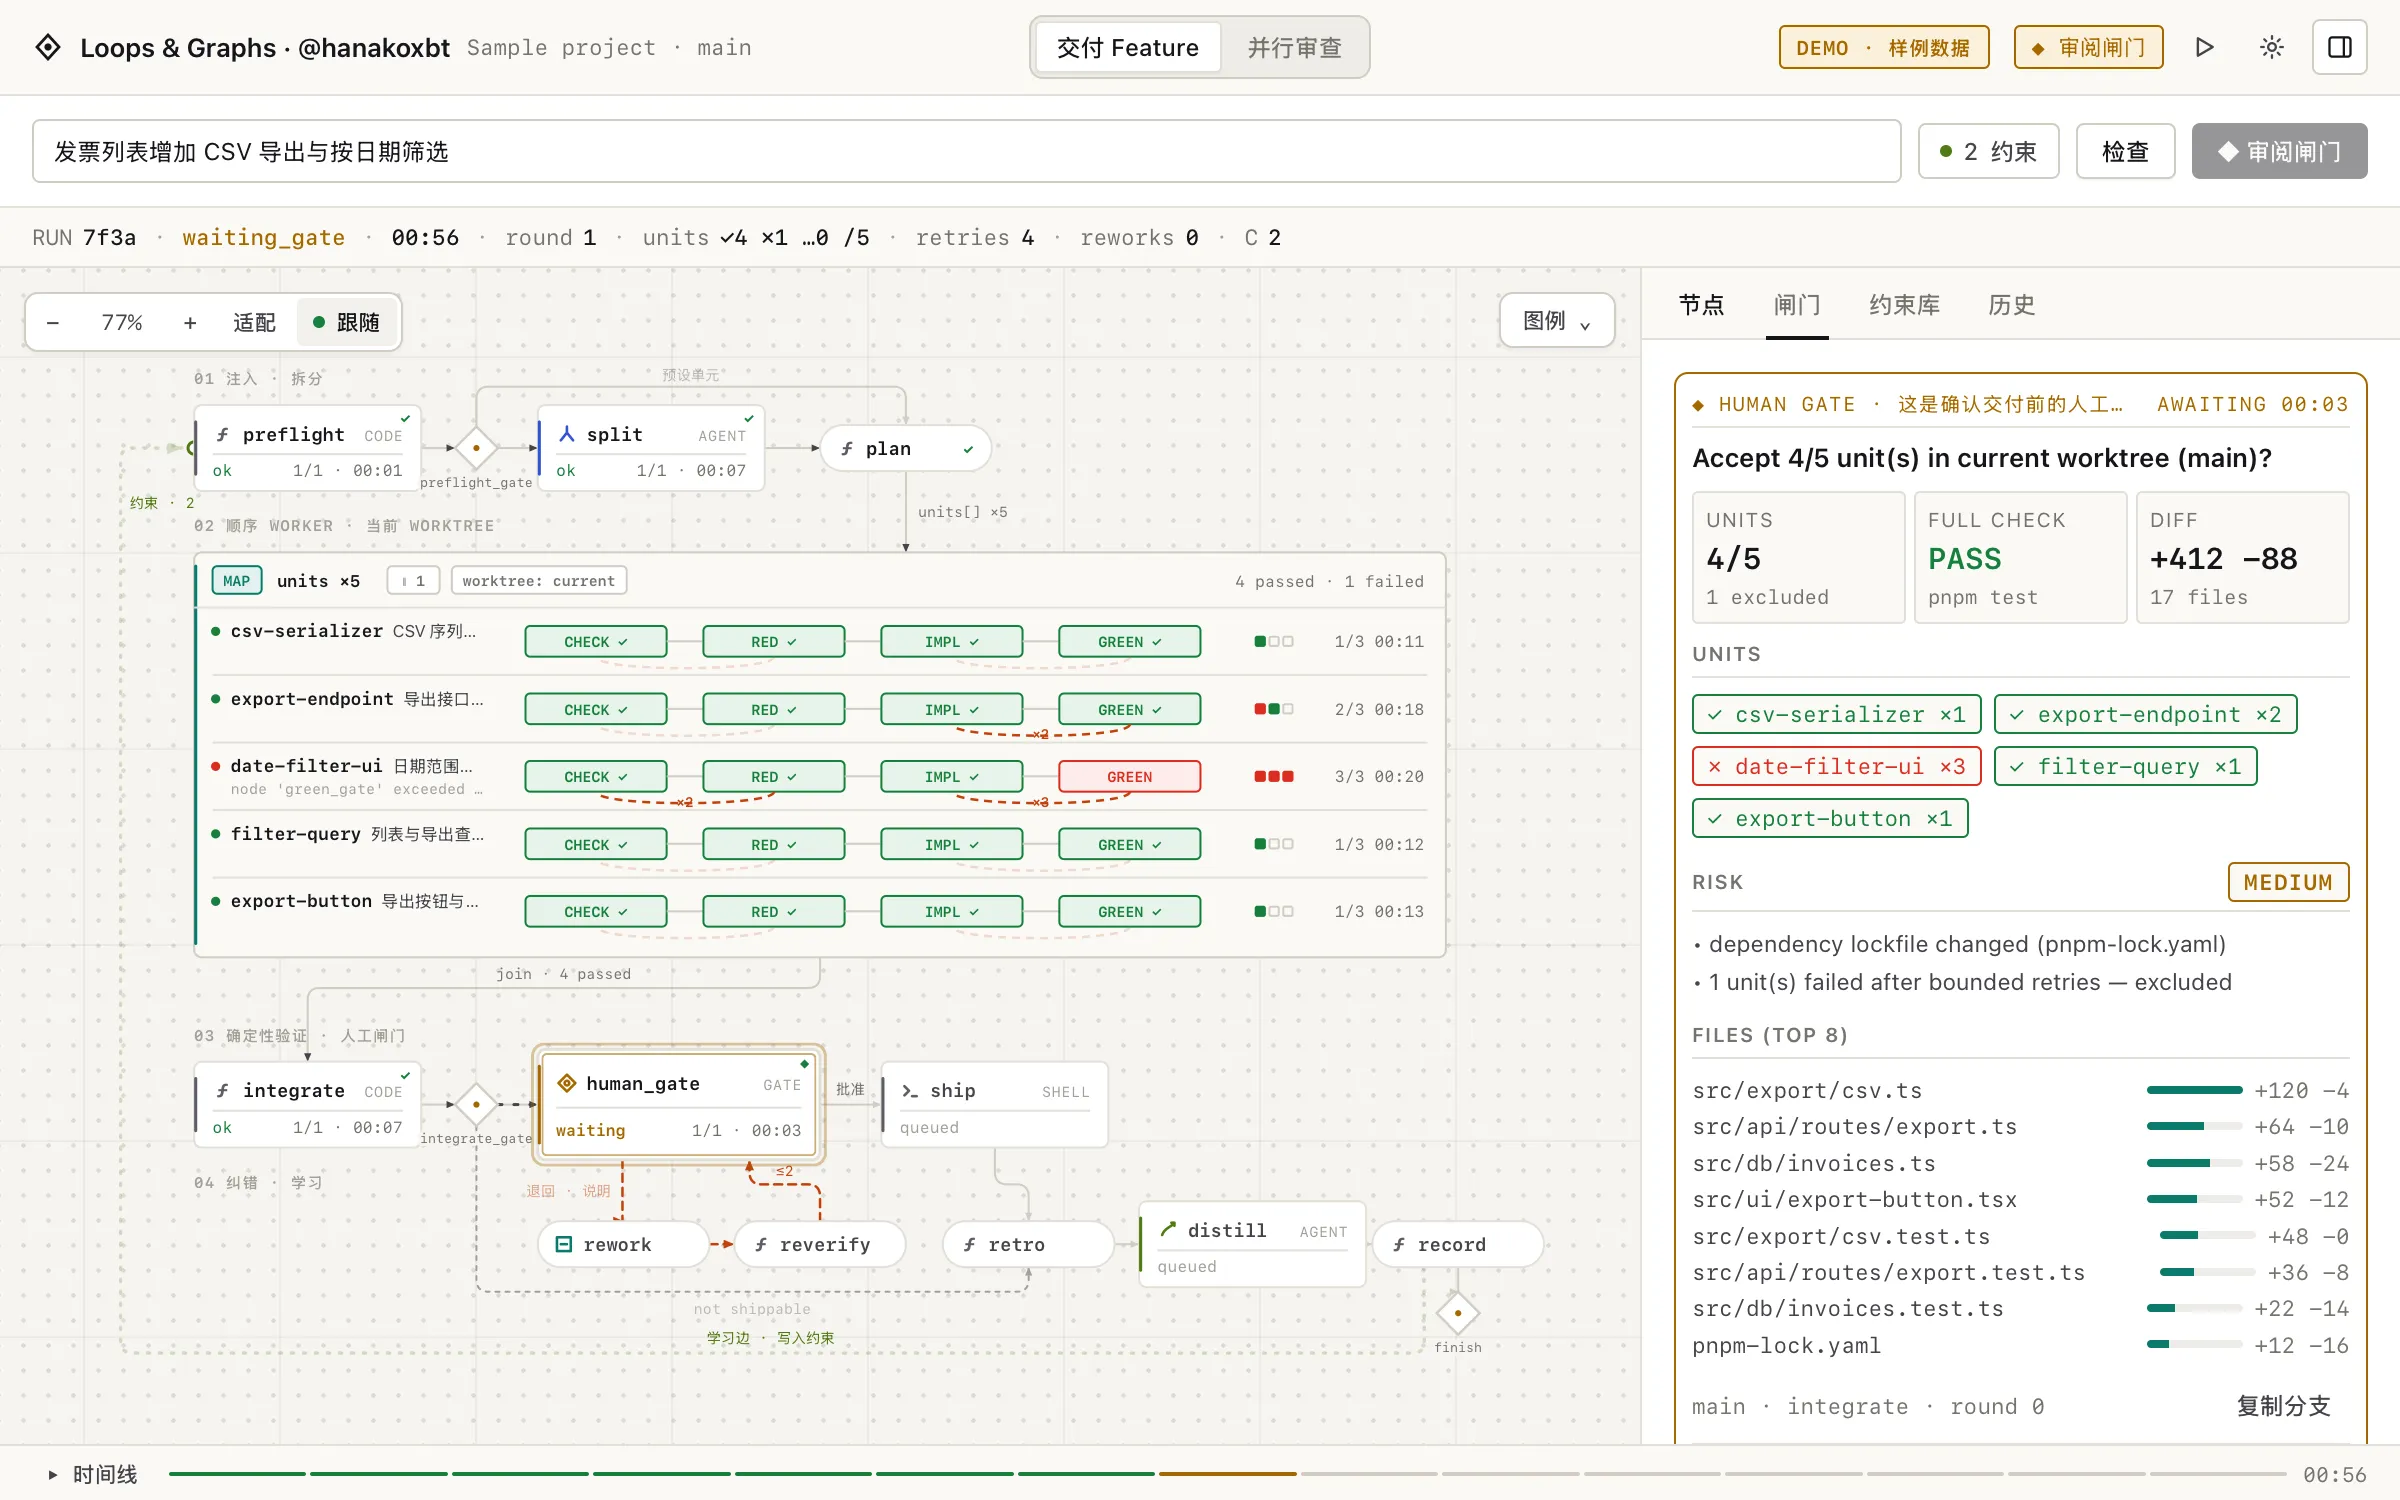
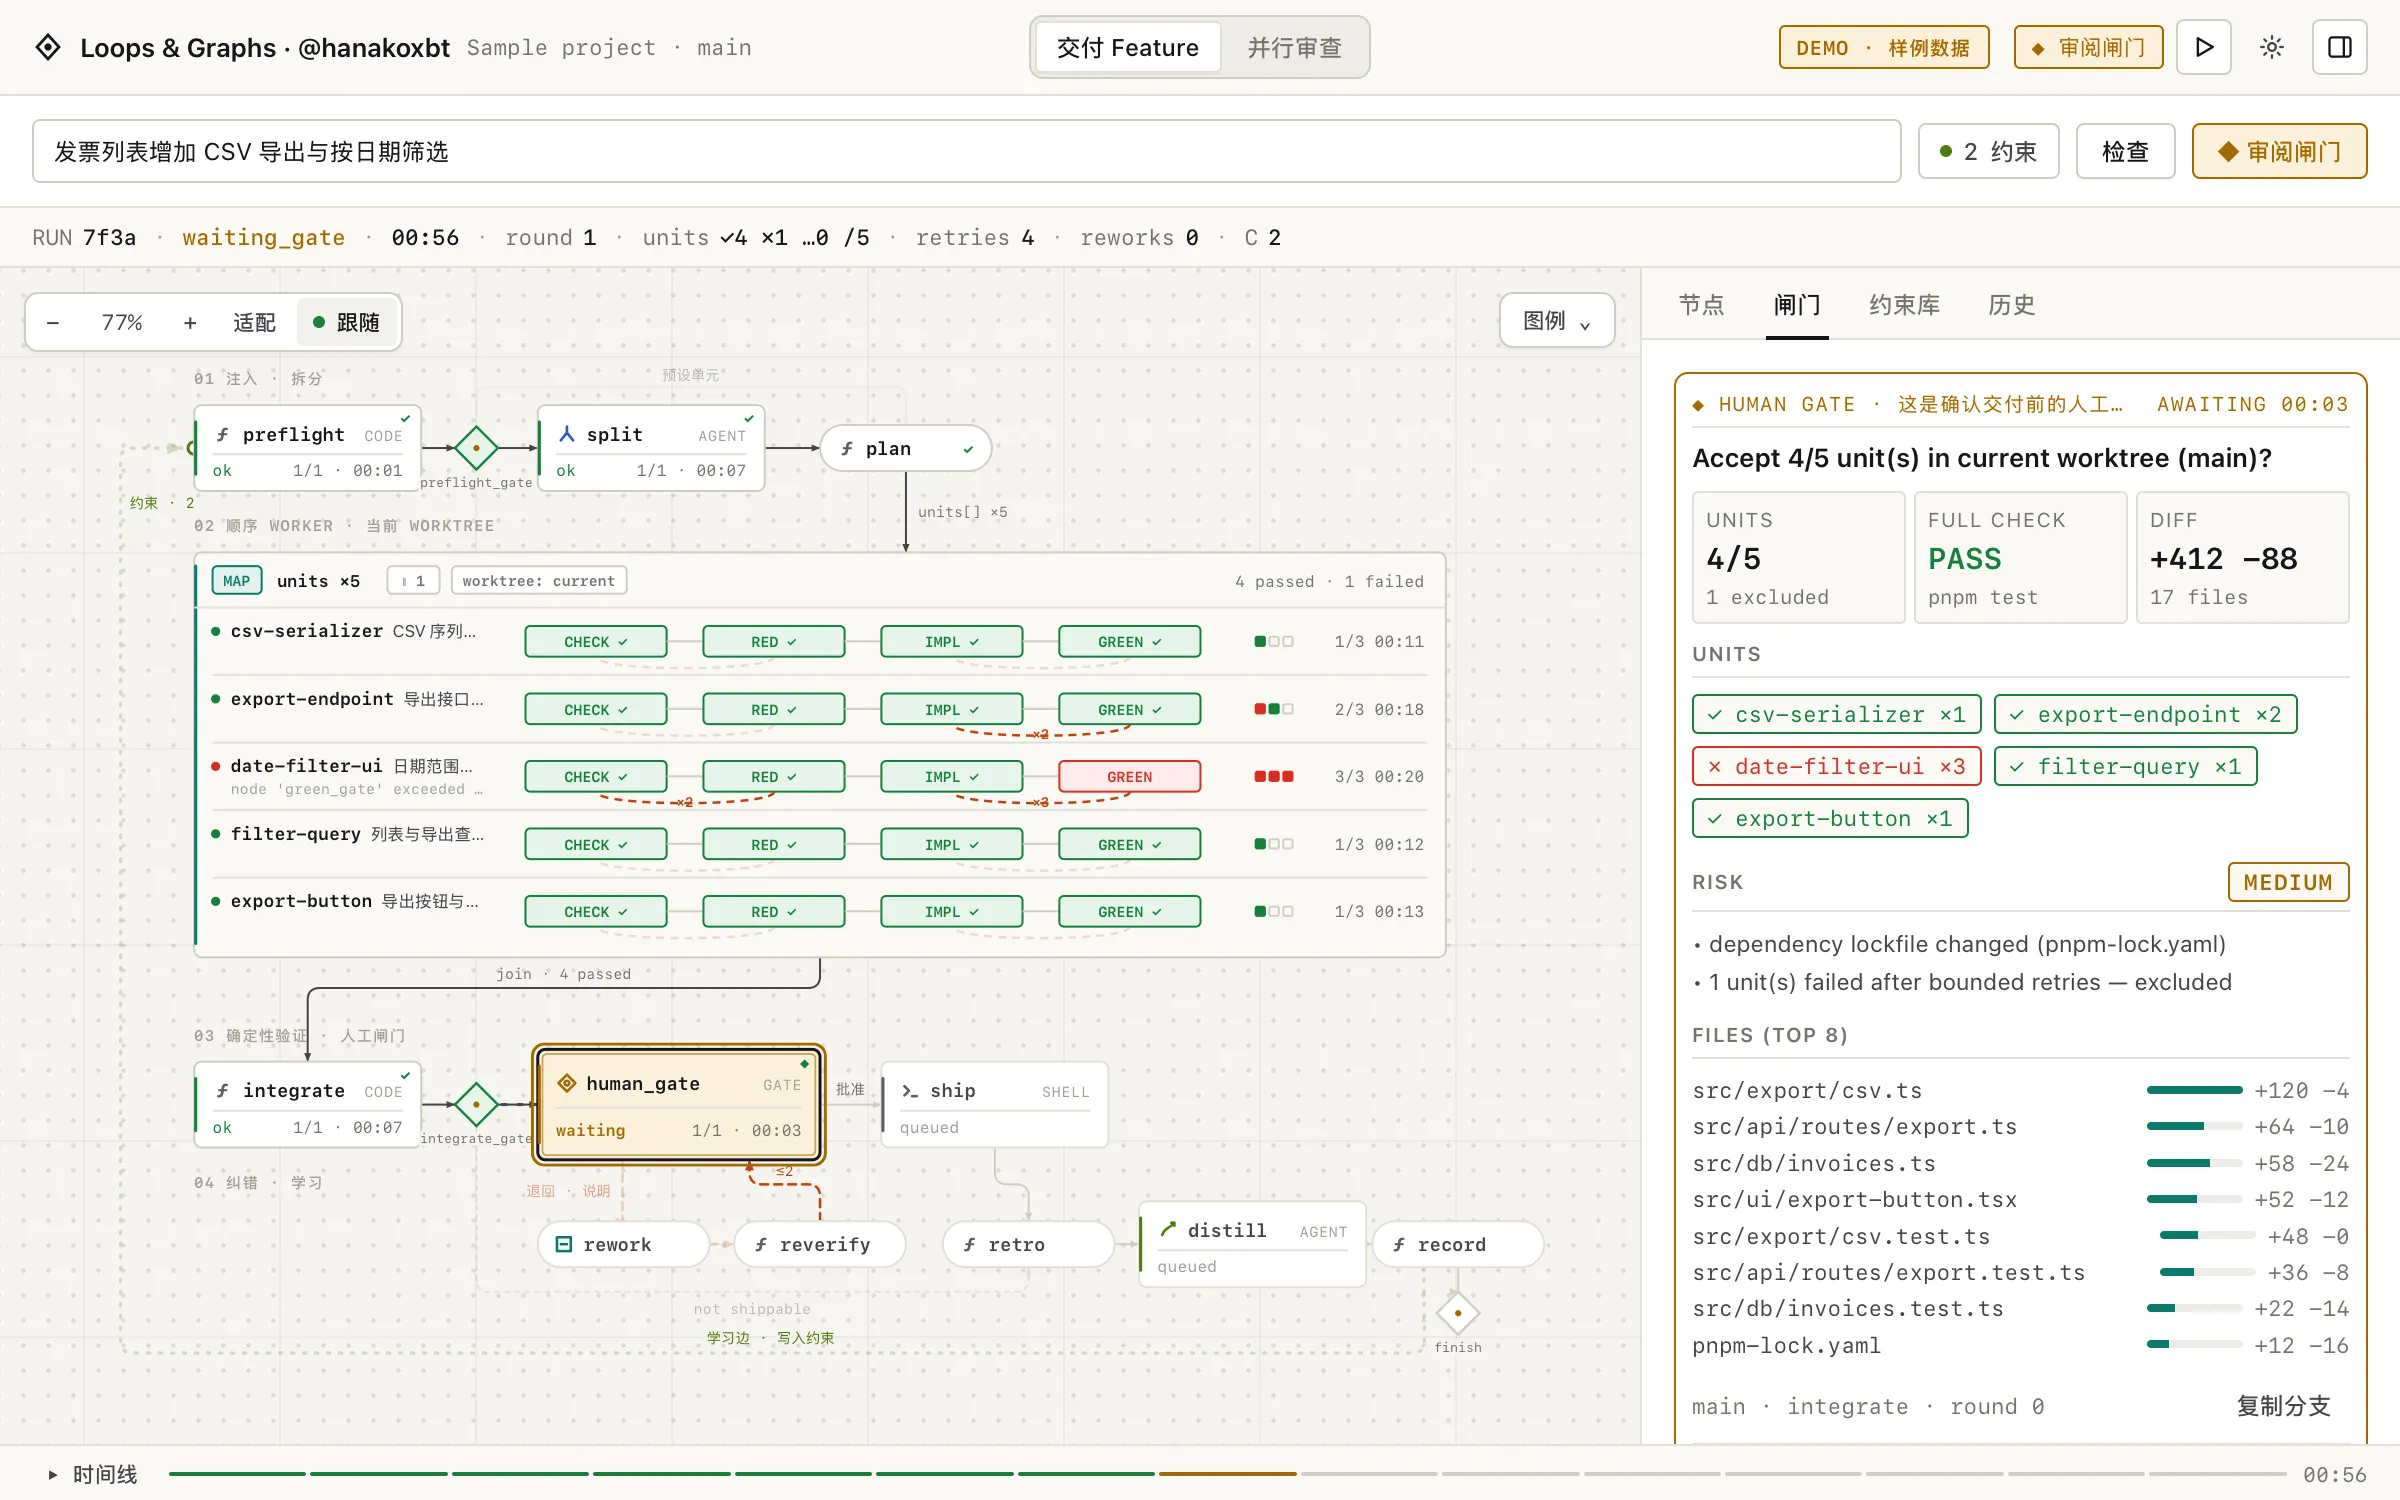
feat(hanakoxbt-loops-and-graphs): improve responsive viewport layout and canvas fit

diff --git a/decks/hanakoxbt-loops-and-graphs/src/host.js b/decks/hanakoxbt-loops-and-graphs/src/host.js
@@ -2,7 +2,7 @@ import { setLocale, t } from './i18n.js';
 import { DEFAULT_PREFS } from './store.js';
 import { createTelemetryController, normalizeEpochSec } from './telemetry.js';
 import { createLessonsController } from './lessons.js';
-import { checkTopologyDrift, extractYamlNodeIds } from './topology/layout.js';
+import { checkTopologyDrift, extractYamlNodeIds, isWideViewport } from './topology/layout.js';
 import { getTopology } from './topology/index.js';
 
 const BASE_TITLE = 'Loops & Graphs · @hanakoxbt';
@@ -280,7 +280,11 @@ export function createHost(store, demo) {
     if (prevState !== 'waiting_gate' && nextRun.state === 'waiting_gate') {
       document.title = `◆ ${BASE_TITLE}`;
       patch.selection = { kind: 'node', id: 'human_gate' };
-      patch.ui = { ...st.ui, inspectorOpen: true, tab: 'gate' };
+      patch.ui = {
+        ...st.ui,
+        inspectorOpen: isWideViewport() ? true : st.ui.inspectorOpen,
+        tab: 'gate',
+      };
     } else if (prevState === 'waiting_gate' && nextRun.state !== 'waiting_gate') {
       document.title = BASE_TITLE;
     }
@@ -560,6 +564,7 @@ export function createHost(store, demo) {
       banner = { tone: 'fail', text: `${preset}: ${wfMap[preset].error}` };
     }
 
+    const wide = isWideViewport();
     store.set(s => ({
       ...s,
       mode: 'idle',
@@ -572,7 +577,7 @@ export function createHost(store, demo) {
       banner,
       ui: {
         ...s.ui,
-        inspectorOpen: mergedPrefs.inspectorOpen !== false,
+        inspectorOpen: wide,
         inspectorWidth: Math.max(320, Math.min(520, Number(mergedPrefs.inspectorWidth) || 380)),
         tab: mergedPrefs.tab || 'node',
         timelineOpen: Boolean(mergedPrefs.timelineOpen),
@@ -639,7 +644,7 @@ export function createHost(store, demo) {
             selection: run.state === 'waiting_gate' ? { kind: 'node', id: 'human_gate' } : s.selection,
             ui:
               run.state === 'waiting_gate'
-                ? { ...s.ui, inspectorOpen: true, tab: 'gate' }
+                ? { ...s.ui, inspectorOpen: isWideViewport(), tab: 'gate' }
                 : s.ui,
           }));
           if (run.state === 'waiting_gate') document.title = `◆ ${BASE_TITLE}`;

diff --git a/decks/hanakoxbt-loops-and-graphs/src/main.js b/decks/hanakoxbt-loops-and-graphs/src/main.js
@@ -1,6 +1,7 @@
 import { createStore, INITIAL_STATE } from './store.js';
 import { applyI18n, t } from './i18n.js';
 import { setAttr, setText } from './lib/dom.js';
+import { isWideViewport } from './topology/layout.js';
 import { createDemoPlayer } from './demo/player.js';
 import { createHost } from './host.js';
 import { mountHeader } from './views/header.js';
@@ -110,6 +111,28 @@ async function boot() {
 
   applyI18n();
   await host.init();
+
+  // Auto-expand inspector and enlarge graph when crossing into wide/fullscreen width,
+  // and collapse inspector when returning to narrow half-screen width.
+  let prevWide = isWideViewport();
+  const syncResponsiveLayout = () => {
+    const nextWide = isWideViewport();
+    if (nextWide === prevWide) return;
+    prevWide = nextWide;
+    store.set(s => ({
+      ...s,
+      ui: { ...s.ui, inspectorOpen: nextWide },
+    }));
+    requestAnimationFrame(() => {
+      requestAnimationFrame(() => {
+        graphApi.fitViewport(true);
+      });
+    });
+  };
+  if (typeof ResizeObserver !== 'undefined') {
+    new ResizeObserver(syncResponsiveLayout).observe(appEl);
+  }
+  window.addEventListener('resize', syncResponsiveLayout);
 
   // Wait for fonts & next animation frame so preview captures are rock-solid
   if (document.fonts && document.fonts.ready) {

diff --git a/decks/hanakoxbt-loops-and-graphs/src/views/graph.js b/decks/hanakoxbt-loops-and-graphs/src/views/graph.js
@@ -97,8 +97,7 @@ export function mountGraph(store, host) {
   }
 
   function getInsetRight() {
-    const st = store.get();
-    return window.innerWidth < 1024 && st.ui.inspectorOpen ? 368 : 0;
+    return 0;
   }
 
   function fitViewport(animate = false) {
@@ -170,7 +169,7 @@ export function mountGraph(store, host) {
     const rect = canvasEl.getBoundingClientRect();
     const px = cx !== undefined ? cx - rect.left : rect.width / 2;
     const py = cy !== undefined ? cy - rect.top : rect.height / 2;
-    const nextK = clamp(vp.k * factor, 0.45, 2.2);
+    const nextK = clamp(vp.k * factor, 0.4, 2.2);
     const ratio = nextK / vp.k;
     vp = {
       k: nextK,
@@ -737,10 +736,8 @@ export function mountGraph(store, host) {
       updateVerdictCard(view);
       updateHintAndBanner(st, view);
 
-      if (prevViewState !== view.state || slice.inspectorOpen !== undefined) {
-        if (view.state === 'waiting_gate') {
-          centerActiveIfOutside(view);
-        } else if (view.state === 'running') {
+      if (prevViewState !== view.state) {
+        if (view.state === 'waiting_gate' || view.state === 'running') {
           centerActiveIfOutside(view);
         }
         prevViewState = view.state;

diff --git a/decks/hanakoxbt-loops-and-graphs/src/views/inspector.js b/decks/hanakoxbt-loops-and-graphs/src/views/inspector.js
@@ -1,5 +1,6 @@
 import { h, setAttr } from '../lib/dom.js';
 import { derive } from '../runModel.js';
+import { isWideViewport } from '../topology/layout.js';
 import { renderNodePanel } from './nodePanel.js';
 import { createGatePanelRenderer } from './gatePanel.js';
 import { createVaultRenderer } from './vault.js';
@@ -33,7 +34,7 @@ export function mountInspector(store, host) {
   let startW = 380;
 
   gripEl.addEventListener('pointerdown', e => {
-    if (window.innerWidth < 1024) return;
+    if (!isWideViewport()) return;
     dragging = true;
     startX = e.clientX;
     startW = inspEl.getBoundingClientRect().width || 380;
@@ -74,7 +75,7 @@ export function mountInspector(store, host) {
     }),
     ({ open, width, tab, run }) => {
       setAttr(appEl, 'data-insp', open ? 'open' : 'closed');
-      if (width && window.innerWidth >= 1024) {
+      if (width && isWideViewport()) {
         document.documentElement.style.setProperty('--insp-w', `${width}px`);
       }
       for (const btn of tabsEl.querySelectorAll('button[data-tab]')) {

diff --git a/decks/hanakoxbt-loops-and-graphs/src/topology/layout.js b/decks/hanakoxbt-loops-and-graphs/src/topology/layout.js
@@ -74,6 +74,12 @@ export function ortho(a, b, mode = 'hvh') {
   return mode === 'h' ? [a, { x: b.x, y: a.y }, b] : [a, { x: a.x, y: b.y }, b];
 }
 
+export const WIDE_BREAKPOINT = 1200;
+
+export function isWideViewport(width = typeof window !== 'undefined' ? window.innerWidth : WIDE_BREAKPOINT) {
+  return width >= WIDE_BREAKPOINT;
+}
+
 export function fit(viewW, viewH, world, insetRight = 0) {
   const padX = 28;
   const padTop = 44;
@@ -82,8 +88,8 @@ export function fit(viewW, viewH, world, insetRight = 0) {
   const H = Math.max(200, viewH);
   const k = clamp(
     Math.min((W - 2 * padX) / world.width, (H - padTop - padBot) / world.height),
-    0.55,
-    1.25,
+    0.4,
+    1.45,
   );
   return {
     k,

diff --git a/decks/hanakoxbt-loops-and-graphs/styles/layout.css b/decks/hanakoxbt-loops-and-graphs/styles/layout.css
@@ -669,8 +669,10 @@ svg.graph.panning {
   :root { --insp-w: 340px; }
 }
 
-@media (max-width: 1023px) {
-  .app {
+@media (max-width: 1199px) {
+  .app,
+  .app[data-insp='open'],
+  .app[data-insp='closed'] {
     grid-template-columns: 1fr 0;
   }
   .inspector {
@@ -687,6 +689,9 @@ svg.graph.panning {
     bottom: calc(var(--timeline-open-h) + 8px);
   }
   .insp-grip { display: none; }
+}
+
+@media (max-width: 1023px) {
   .cmd .constraints-label, .strip .s-optional {
     display: none;
   }

diff --git a/decks/hanakoxbt-loops-and-graphs/src/store.js b/decks/hanakoxbt-loops-and-graphs/src/store.js
@@ -1,6 +1,6 @@
 export const DEFAULT_PREFS = {
   preset: 'feature-ship',
-  inspectorOpen: true,
+  inspectorOpen: false,
   inspectorWidth: 380,
   tab: 'node',
   timelineOpen: false,
@@ -36,7 +36,7 @@ export const INITIAL_STATE = {
   agentCatalog: null,
   agentOverride: { provider: '', model: '', effort: '' },
   ui: {
-    inspectorOpen: true,
+    inspectorOpen: false,
     inspectorWidth: 380,
     tab: 'node',
     timelineOpen: false,

diff --git a/decks/hanakoxbt-loops-and-graphs/index.html b/decks/hanakoxbt-loops-and-graphs/index.html
@@ -12,7 +12,7 @@
   <link rel="stylesheet" href="styles/panels.css">
 </head>
 <body>
-<div class="app" id="app" data-mode="boot" data-insp="open" data-tl="closed">
+<div class="app" id="app" data-mode="boot" data-insp="closed" data-tl="closed">
   <header class="hd" id="hd">
     <div class="brand">
       <svg class="logo" viewBox="0 0 16 16" aria-hidden="true">
